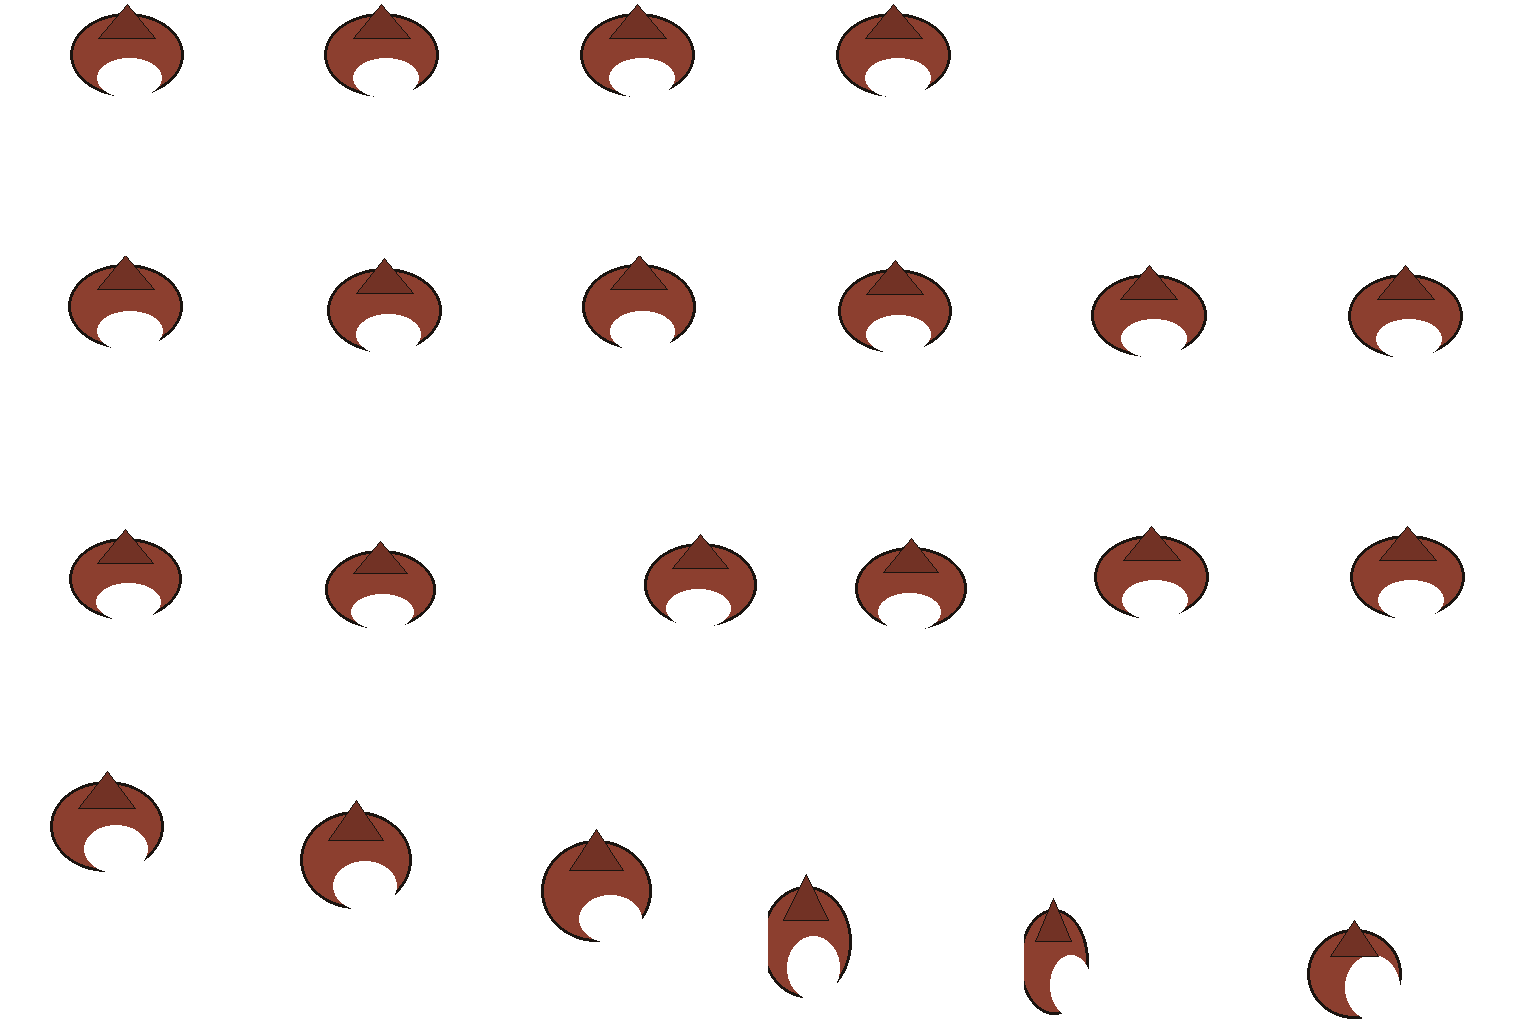
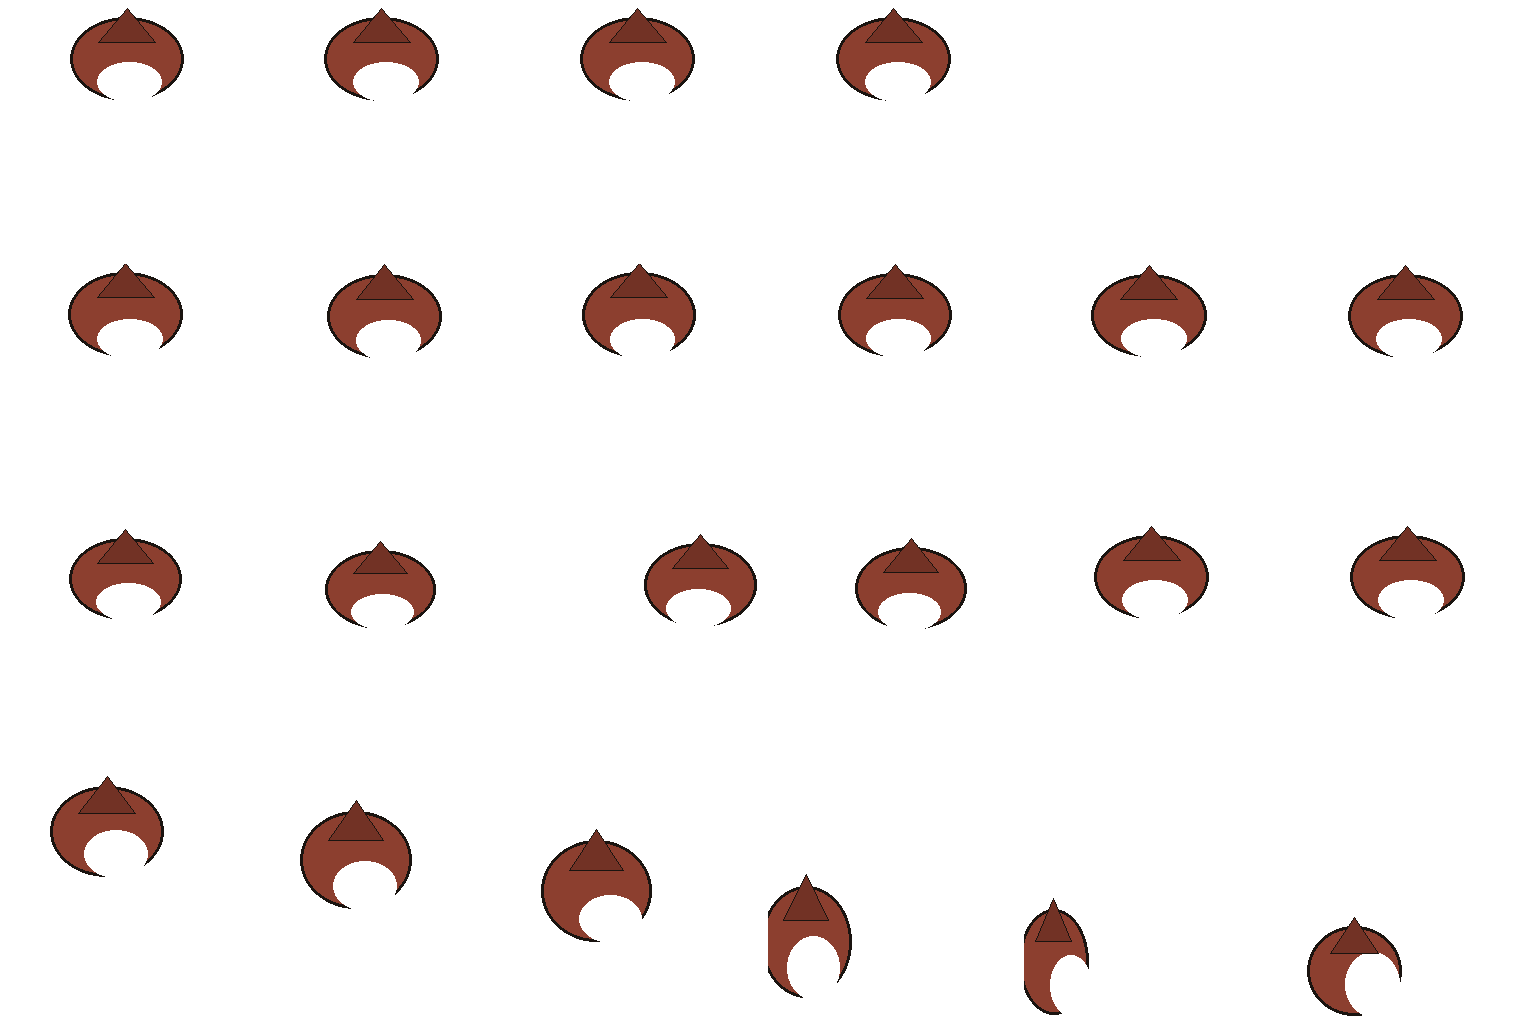
build 396 — the women wear their class too
Il-Qawmien's class kits went live for men in 395. The other half was wired at
the same time and never looked at: four of the five were already right, and the
fifth — the cindermancer's hat — I had switched off by mistake, assuming she
had the same broken art as him. She does not. She has it back.

The rest shared one fault: art reaching the very edge of its frame, which the
sheet checker refuses because that is what a sliced-off head looks like before
anyone notices. Nudged clear by a few pixels — about one pixel on screen — and
all nineteen overlays now pass, including three of the men's that were shipped
failing in 395.

One redraw still outstanding: the male cindermancer's walking hat covers his
face from the front and smears across the frame from the side, so he keeps the
plain body until it is drawn again.

Claude-Session: https://claude.ai/code/session_01Q55X5n8LA6xgNosSpJws7r

diff --git a/qawmien/classes.js b/qawmien/classes.js
@@ -254,19 +254,25 @@ window.CLASSES = (function () {
   /* ART THAT IS KNOWN TO BE WRONG, named out loud rather than shipped.
      `<class>-<gender>-<kind>`; anything listed here draws the plain body.
 
-     cindermancer's WALK sheet is the one that failed outright: its hat
-     covers the face facing south, floats off the top of the cell facing
-     south-east, and the east row came back as a brown ellipse over the
-     whole cell. A class with no hat reads as unfinished; a class wearing a
-     smear reads as broken, and the second is worse. Its action sheet is
-     fine, so the hat is still there in combat and on the creation screen.
+     ONE sheet is left: the male cindermancer's WALK art. Its hat covers his
+     face facing south, floats off the top of the cell facing south-east,
+     and the east row came back as a brown ellipse across the whole cell.
+     That is a redraw, not a repair. His action sheet is fine, so the hat is
+     still on him in combat and on the creation screen — a class with no hat
+     reads as unfinished, one wearing a smear reads as broken, and the
+     second is worse.
+
+     The FEMALE walk sheet was in this list too, and should not have been: it
+     was added by assuming she had the same fault as him. She does not — her
+     hat sits correctly in all four facings and only broke the border rule,
+     which tools/nudgegear.py fixed. Checked, then delisted. Copying a
+     verdict from one sheet to another is how a working asset gets switched
+     off for a fortnight.
 
      DELETE THE ENTRY, DO NOT WORK AROUND IT: the fix is to regenerate
-     art/gear/cindermancer-m-dir8.png through tools/makegear.sh and let
-     tools/checksheet.py --gear pass it. (The east row was corrupt in three
-     of the five male overlays; warden's and stormfletch's were repairable
-     from their south-east frames, this one was not.) */
-  const GARB_BROKEN = { 'cindermancer-m-dir8': 1, 'cindermancer-f-dir8': 1 };
+     art/gear/cindermancer-m-dir8.png and let tools/checksheet.py --gear
+     pass it. */
+  const GARB_BROKEN = { 'cindermancer-m-dir8': 1 };
 
   function garb(id, gender, kind) {
     const c = BY_ID[id];

diff --git a/sw.js b/sw.js
@@ -2,7 +2,7 @@
    Deliberately narrow: it never touches cross-origin requests and never
    touches range requests, because a greedy SW broke a previous project.
    Bump CACHE on every deploy. */
-const CACHE = 'karti-v395';
+const CACHE = 'karti-v396';
 /* ── THE SHELL, NOT THE GAME ─────────────────────────────────────────────────
    This list used to be 205 entries / ~24 MB — every game module and every
    per-game portrait — so a first install (and EVERY version bump) re-fetched

diff --git a/index.html b/index.html
@@ -2449,7 +2449,7 @@ window.KARTI_THEME = (function(){
    over a MessageChannel, and the answer comes from the script iOS actually
    activated — not from the server, not from a constant. Keep BUILD in step
    with CACHE in sw.js (bump both on every deploy). */
-var KARTI_BUILD = 395;
+var KARTI_BUILD = 396;
 window.KARTI_BUILD = KARTI_BUILD;
 window.swVersion = function(){
   return new Promise(function(resolve){
